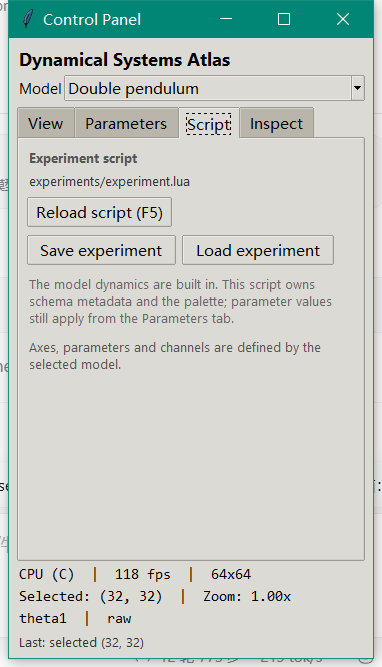
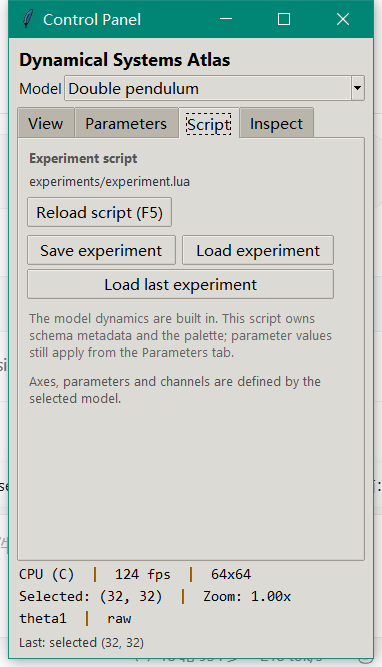
feat: restore selected cells and recent experiment state
Save selected/sel_x/sel_y in .dps and restore it on load. Add a Load last experiment action backed by e.g. last-session.txt next to the exe. Version 1.17.0: 25 C objects, 118 CPU / 150 with GPU.

diff --git a/src/app.c b/src/app.c
@@ -73,6 +73,7 @@ struct App {
     unsigned char lut[DP_LUT_N * 3];
     char     hot_path[MAX_PATH];
     char     title[512];
+    char     last_session[MAX_PATH];
     float   *overlay;
     int      overlay_cap;
 };
@@ -507,16 +508,51 @@ static int app_export_csv(App *a)
 }
 
 
+static void app_remember_session(App *a, const char *path)
+{
+    char dir[MAX_PATH], cfg[MAX_PATH];
+    FILE *f;
+    if (!a || !path) return;
+    strncpy(a->last_session, path, sizeof(a->last_session) - 1);
+    a->last_session[sizeof(a->last_session) - 1] = 0;
+    platform_exe_dir(dir, sizeof(dir));
+    snprintf(cfg, sizeof(cfg), "%s\\last-session.txt", dir);
+    f = fopen(cfg, "wb");
+    if (f) {
+        fprintf(f, "%s\n", path);
+        fclose(f);
+    }
+}
+
+static void app_read_recent(App *a)
+{
+    char dir[MAX_PATH], cfg[MAX_PATH], buf[MAX_PATH];
+    FILE *f;
+    if (!a) return;
+    platform_exe_dir(dir, sizeof(dir));
+    snprintf(cfg, sizeof(cfg), "%s\\last-session.txt", dir);
+    f = fopen(cfg, "rb");
+    if (!f) return;
+    if (fgets(buf, sizeof(buf), f)) {
+        size_t n = strlen(buf);
+        while (n > 0 && (buf[n - 1] == '\n' || buf[n - 1] == '\r')) buf[--n] = 0;
+        if (buf[0]) strncpy(a->last_session, buf, sizeof(a->last_session) - 1);
+    }
+    fclose(f);
+}
+
 static int app_save_session(App *a, const char *path)
 {
     char err[512];
     if (!a || !path) return 0;
     err[0] = 0;
-    if (!session_save(path, &a->exp, &a->view, a->backend_gpu, err, sizeof(err))) {
+    if (!session_save(path, &a->exp, &a->view, a->backend_gpu,
+                      a->selected, a->sel_x, a->sel_y, err, sizeof(err))) {
         app_set_last(a, err[0] ? err : "save failed");
         return 0;
     }
     app_set_last(a, path);
+    app_remember_session(a, path);
     return 1;
 }
 
@@ -584,6 +620,12 @@ static int app_load_session(App *a, const char *path)
     if (a->atlas) atlas_destroy(a->atlas);
     a->atlas = atlas_create(&a->exp, a->exp.res, err, sizeof(err));
     if (!a->atlas) { app_set_last(a, err[0] ? err : "atlas creation failed"); return 0; }
+    if (s.selected && s.sel_x >= 0 && s.sel_x < a->exp.res &&
+        s.sel_y >= 0 && s.sel_y < a->exp.res) {
+        a->selected = 1;
+        a->sel_x = s.sel_x;
+        a->sel_y = s.sel_y;
+    }
     {
         int want_gpu = s.backend_gpu;
         a->backend_gpu = 0;
@@ -603,6 +645,7 @@ static int app_load_session(App *a, const char *path)
     }
     app_set_title(a, 1);
     app_set_last(a, path);
+    app_remember_session(a, path);
     return 1;
 }
 
@@ -806,6 +849,11 @@ static int app_do_action(App *a, const char *name, const char *value)
             app_set_last(a, "backend CPU");
         }
         app_set_title(a, 1);
+        return 1;
+    }
+    if (strcmp(name, "reload_last_session") == 0) {
+        if (!a->last_session[0]) { app_set_last(a, "no recent session in this run"); return 1; }
+        app_load_session(a, a->last_session);
         return 1;
     }
     if (strcmp(name, "save_experiment") == 0) { app_dialog_save(a); return 1; }
@@ -1061,6 +1109,7 @@ App *app_create(HINSTANCE inst, const AppOptions *opt, char *err, size_t errsz)
 
     if (err && errsz) err[0] = 0;
     a = (App *)calloc(1, sizeof(App));
+    app_read_recent(a);
     if (!a) { if (err) snprintf(err, errsz, "app: out of memory"); return NULL; }
     a->inst = inst;
     a->opt = *opt;

diff --git a/src/session.c b/src/session.c
@@ -17,7 +17,8 @@ static void trim(char *s)
 static int boolv(const char *v) { return v && (v[0] == '1' || v[0] == 't' || v[0] == 'T'); }
 
 int session_save(const char *path, const Experiment *e, const PhaseView *v,
-                 int backend_gpu, char *err, size_t errsz)
+                 int backend_gpu, int selected, int sel_x, int sel_y,
+                 char *err, size_t errsz)
 {
     FILE *f;
     int i;
@@ -44,6 +45,8 @@ int session_save(const char *path, const Experiment *e, const PhaseView *v,
     fprintf(f, "backend=%s\n", backend_gpu ? "gpu" : "cpu");
     fprintf(f, "view_cx=%.17g\nview_cy=%.17g\nview_zoom=%.17g\n",
             v->cx, v->cy, v->zoom);
+    fprintf(f, "selected=%d\nsel_x=%d\nsel_y=%d\n",
+            selected ? 1 : 0, sel_x, sel_y);
     for (i = 0; i < e->np; ++i)
         fprintf(f, "param.%s=%.17g\n", e->p[i].name, e->p[i].value);
     fclose(f);
@@ -94,6 +97,9 @@ int session_load(const char *path, SessionData *s, char *err, size_t errsz)
         else if (strcmp(k, "view_cx") == 0) s->view_cx = atof(v);
         else if (strcmp(k, "view_cy") == 0) s->view_cy = atof(v);
         else if (strcmp(k, "view_zoom") == 0) s->view_zoom = atof(v);
+        else if (strcmp(k, "selected") == 0) s->selected = boolv(v);
+        else if (strcmp(k, "sel_x") == 0) s->sel_x = atoi(v);
+        else if (strcmp(k, "sel_y") == 0) s->sel_y = atoi(v);
         else if (strncmp(k, "param.", 6) == 0 && s->nparams < MODEL_MAX_PARAMS) {
             strncpy(s->params[s->nparams].name, k + 6, sizeof(s->params[s->nparams].name) - 1);
             s->params[s->nparams].value = atof(v);
@@ -108,5 +114,7 @@ int session_load(const char *path, SessionData *s, char *err, size_t errsz)
     if (s->xmax <= s->xmin) { s->xmin = 0; s->xmax = 1; }
     if (s->ymax <= s->ymin) { s->ymin = 0; s->ymax = 1; }
     if (s->view_zoom < 0.25) s->view_zoom = 1.0;
+    if (s->sel_x < 0 || s->sel_x >= s->res || s->sel_y < 0 || s->sel_y >= s->res)
+        s->selected = 0;
     return 1;
 }

diff --git a/src/selftest.c b/src/selftest.c
@@ -514,7 +514,7 @@ static void test_session(void)
     pv_init(&v); v.cx = 0.1; v.cy = -0.2; v.zoom = 2.0;
     GetTempPathA(sizeof(dir), dir);
     snprintf(path, sizeof(path), "%sdp-session-test.dps", dir);
-    check(session_save(path, &e, &v, 1, err, sizeof(err)) == 1, "session save");
+    check(session_save(path, &e, &v, 1, 1, 12, 13, err, sizeof(err)) == 1, "session save");
     check(session_load(path, &s, err, sizeof(err)) == 1, "session load");
     check(strcmp(s.model, "double_pendulum") == 0 && s.backend_gpu == 1,
           "session model/backend roundtrip");
@@ -527,6 +527,8 @@ static void test_session(void)
     check(s.periodic == 1 && s.circle == 0 &&
           fabs(s.view_cx - 0.1) < 1e-12 && fabs(s.view_zoom - 2.0) < 1e-12,
           "session view/toggles roundtrip");
+    check(s.selected == 1 && s.sel_x == 12 && s.sel_y == 13,
+          "session selected cell roundtrip");
     DeleteFileA(path);
 }
 

diff --git a/src/session.h b/src/session.h
@@ -24,13 +24,15 @@ typedef struct {
     char palette[32];
     int grid, periodic, circle;
     int backend_gpu;
+    int selected, sel_x, sel_y;
     double view_cx, view_cy, view_zoom;
     int nparams;
     SessionParam params[MODEL_MAX_PARAMS];
 } SessionData;
 
 int session_save(const char *path, const Experiment *e, const PhaseView *v,
-                 int backend_gpu, char *err, size_t errsz);
+                 int backend_gpu, int selected, int sel_x, int sel_y,
+                 char *err, size_t errsz);
 int session_load(const char *path, SessionData *s, char *err, size_t errsz);
 
 #endif

diff --git a/docs/verification.md b/docs/verification.md
@@ -8,14 +8,14 @@ Tcl/Tk 8.6.0、Lua 5.2、NVIDIA GTX 1650 Ti。
 ```text
 [3/6] compiling C skeleton (25 objects)
 [6/6] linking (dynamic Tcl/Tk, static C/Fortran)
-OK -> dist/dp-phase/dp-phase.exe (427,520 bytes)
+OK -> dist/dp-phase/dp-phase.exe (428,544 bytes)
       staged 10.1 MB
-      dist/dp-phase-1.16.0.zip (3.9 MB)
+      dist/dp-phase-1.17.0.zip (3.9 MB)
 ```
 
 | 项目 | 值 |
 | --- | --- |
-| exe | 427,520 B |
+| exe | 428,544 B |
 | zip | 约 3.9 MB（docs 改动会改变 zip 字节数） |
 | 导入表 | KERNEL32/USER32/GDI32/OPENGL32/WINMM/MSVCRT + tcl86.dll/tk86.dll（zlib 静态） |
 | 随包 DLL | tcl86、tk86、libgcc_s_dw2-1、zlib1 |
@@ -54,10 +54,10 @@ OK -> dist/dp-phase/dp-phase.exe (427,520 bytes)
   [ok]   session load
   [ok]   session axes/ranges roundtrip
   [ok]   session integration roundtrip
-selftest: 117 passed, 0 failed
+selftest: 118 passed, 0 failed
 ```
 
-`/gpu-selftest`：**149/149**（117 CPU + 旧 GPU + 表达式/ODE/全模型 GPU atlas 回归）。
+`/gpu-selftest`：**150/150**（118 CPU + 旧 GPU + 表达式/ODE/全模型 GPU atlas 回归）。
 GUI 默认采样 CPU；View 的 Kernel=GPU 可启用全模型 GPU atlas（读回后再 CPU colorize/显示）。
 
 ## 3. 双摆三窗口
@@ -201,7 +201,7 @@ channels: x, y, sqrt(x*x+y*y), abs(x)
   [ok]   GPU custom dispatch
   [ok]   GPU custom state matches CPU
   [ok]   GPU custom channels match CPU
-selftest: 149 passed, 0 failed
+selftest: 150 passed, 0 failed
 ```
 
 测试用单格 10 步 + 8×8 atlas 2 步 Hénon 表达式；单格容差 1e-5，atlas 2 步逐值一致。
@@ -225,7 +225,7 @@ SHA256 a/b 均为 DEB38453439C784A5DBBD45C0B7B68BC1175AE0D79DB8883074167576EFE6A
 ```
 
 - 保存：模型、轴/范围、参数、res/dt/steps、通道/后处理/palette、Grid/Periodic/Circle、
-  CPU/GPU 后端、视图中心/zoom；
+  CPU/GPU 后端、视图中心/zoom、选中格；
 - 加载：重建 Experiment/Atlas/检查器，应用 schema 后用文件覆盖，Tcl rebuild；
 - custom 模型必须仍由 Lua 定义；GPU 失败回退 CPU。
 
@@ -237,24 +237,31 @@ SHA256 a/b 均为 DEB38453439C784A5DBBD45C0B7B68BC1175AE0D79DB8883074167576EFE6A
 
 ![地图刻度](shot-axis.png)
 
-## 13. 控制流表达式
+## 13. 会话选中格/最近实验
+
+`.dps` 新增 `selected/sel_x/sel_y`；加载后恢复 Inspect。Script 页 `Load last`
+读取 exe 旁 `last-session.txt`。
+
+![Script 会话](shot-panel-script.png)
+
+## 14. 控制流表达式
 
 `expr.c` 新增比较/逻辑/三元/`if(cond,a,b)`。CPU 用数值真值，GLSL 条件使用 bool；
 自定义 `x_abs` 改为 `if(x < 0, -x, x)`，CPU/GPU 单格测试通过。
 
-## 14. ODE 表达式
+## 15. ODE 表达式
 
 `type="ode"` 使用 `deriv={x=...,y=...}`；CPU 与 GLSL 都走 RK4，`dt` 来自实验。
 自检用 `x'=y, y'=-x` 与解析解 `cos(1), -sin(1)` 对照；GPU 同一结果。
 
-## 15. 性能
+## 16. 性能
 
 - 双摆 64×64：142–147 fps；
 - Logistic/Hénon 64×64：140+ fps；
 - 64×64 双摆每步约 2 ms（8 线程）；
 - 256×256 CPU 仍可算，但约 16 倍成本；GPU atlas 对全模型可用，仍有 CPU 回退。
 
-## 16. 本次修掉的问题
+## 17. 本次修掉的问题
 
 | 问题 | 根因 | 修复 |
 | --- | --- | --- |
@@ -269,7 +276,7 @@ SHA256 a/b 均为 DEB38453439C784A5DBBD45C0B7B68BC1175AE0D79DB8883074167576EFE6A
 | CSV 列名冲突 | x/y/state/channel 同名 | 加 `x_/y_/state_/ch_` 前缀 |
 | Lua 脚本名与多模型不符 | 原 double-pendulum.lua | 改为共享 experiments/experiment.lua |
 
-## 17. 已知边界
+## 18. 已知边界
 
 1. Lua 仍是 palette/meta，不是模型 DSL。
 2. 只有三个内置模型，无表达式模型。
@@ -280,7 +287,7 @@ SHA256 a/b 均为 DEB38453439C784A5DBBD45C0B7B68BC1175AE0D79DB8883074167576EFE6A
 7. Hénon 未算 Lyapunov；map 的 Lyapunov 是有限时间平均。
 8. 没有 3D 切片/连续化。
 
-## 18. 复现
+## 19. 复现
 
 ```powershell
 pwsh -File build.ps1

diff --git a/docs/design.md b/docs/design.md
@@ -196,9 +196,10 @@ Angle/Mass 是双摆专用预设；在 map 模型上点击会先切回双摆。
 ## 10b. 实验保存/加载
 
 `.dps` 是行格式（`key=value`），保存模型/轴/范围/参数/res/dt/steps/通道/
-后处理/palette/Grid/Periodic/Circle/CPU-GPU 后端/视图中心与 zoom。
+后处理/palette/Grid/Periodic/Circle/CPU-GPU 后端/视图中心与 zoom/选中格。
 
-- GUI：Script 页 Save/Load，原生 `GetSaveFileNameA/GetOpenFileNameA`；
+- GUI：Script 页 Save/Load/Load last，原生 `GetSaveFileNameA/GetOpenFileNameA`；
+  最近路径写入 exe 旁 `last-session.txt`；
 - CLI：`/save path`、`/load path`（可和 `/shot` 组合做回归）；
 - 加载：按 model id 重建 Experiment/Atlas/检查器，应用 schema 默认后用文件覆盖值，
   通过 `panel_eval("rebuild_schema")` 刷新 Tcl；
@@ -243,7 +244,7 @@ function M.schema(id) return M.models[id] end
 
 `build.ps1` 六步；C 25 个对象；Tcl/Tk 动态，Lua/Fortran 静态。
 TCL_LIBRARY/TK_LIBRARY 指向 exe 目录下 lib/，不解包、不写 LOCALAPPDATA。
-zip 约 3.9 MB，exe 约 428 KB。
+zip 约 3.9 MB，exe 约 429 KB。
 
 ## 13. 物理与数值边界
 
@@ -272,6 +273,7 @@ zip 约 3.9 MB，exe 约 428 KB。
 - M7a（已完成）：.dps 实验保存/加载 + 文件对话框 + CLI；
 - M7b（进行中）：控制流与 ODE 表达式已进 CPU+GLSL；
 - M8（已完成）：全模型 GPU + 地图数字刻度 + 轴名直绘；
-- M9（进行中）：更多会话状态、最近实验。
+- M9（已完成）：会话选中格 + `last-session.txt` 最近实验；
+- M10（后续）：更完整最近文件/导出偏好、分析通道。
 - M8：地图轴刻度、更多会话状态、FTLE/盆地/切片；
 - 可选：map inspector、Hénon Lyapunov（切向量+QR）。
